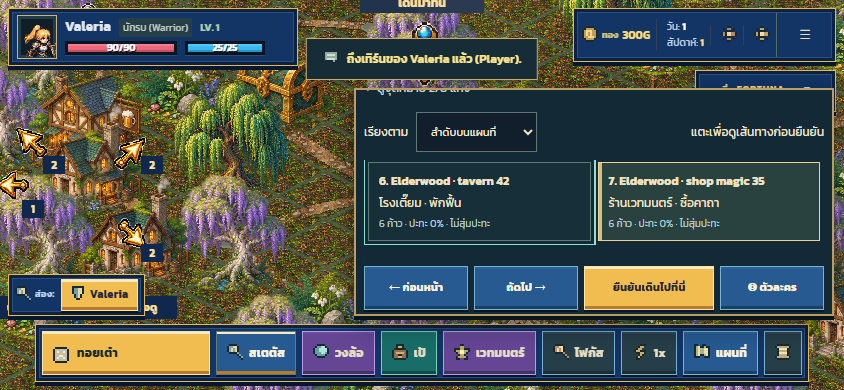
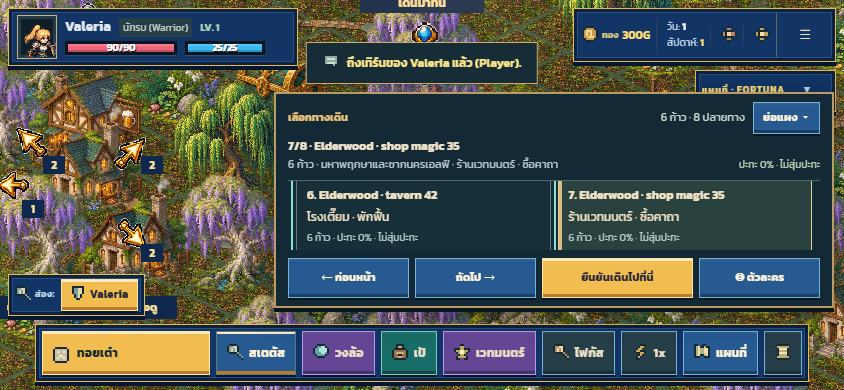
Keep route selection compact and reveal planning details on demand

Changed region(s): [[0.3081, 0.0923, 1.0, 0.8308]]

diff --git a/src/ui/MovementUI.ts b/src/ui/MovementUI.ts
@@ -17,7 +17,9 @@ export class MovementUI {
   private health: HTMLElement;
   private confirm: HTMLButtonElement;
   private list: HTMLElement;
-  private options: HTMLDetailsElement;
+  private options: HTMLElement;
+  private expand: HTMLButtonElement;
+  private risk: HTMLElement;
   private recommendation: HTMLButtonElement;
   private destinations: RouteDestinationInsight[] = [];
   private filtered: RouteDestinationInsight[] = [];
@@ -30,26 +32,30 @@ export class MovementUI {
     this.panel.id = 'movementNavigator'; this.panel.hidden = true;
     this.panel.setAttribute('aria-label', 'วางแผนและเลือกเส้นทางเดิน');
     this.panel.innerHTML = `
-      <div class="movement-heading"><strong>วางแผนเส้นทาง</strong><span id="movementStatus"></span><span id="movementHealth" class="movement-health"></span></div>
+      <div class="movement-heading"><strong>เลือกทางเดิน</strong><span id="movementStatus"></span><button type="button" id="btnMoveExpand" class="pixel-btn" aria-expanded="false" aria-controls="movementOptions">ดูตัวเลือก ▴</button></div>
+      <div id="movementDestination" role="status" aria-live="polite" aria-atomic="true"><strong id="movementTitle"></strong><div class="movement-preview"><p id="movementDetail"></p><span id="movementRisk" class="movement-risk"></span></div></div>
+      <div id="movementOptions" class="movement-options" hidden>
+      <span id="movementHealth" class="movement-health"></span>
       <div class="movement-filters" role="group" aria-label="กรองจุดหมาย">${ROUTE_FILTERS.map(filter => `<button type="button" class="pixel-btn" data-route-filter="${filter.id}" aria-pressed="${filter.id === 'all'}">${filter.label} <span>0</span></button>`).join('')}</div>
       <button type="button" id="movementRecommendation" class="movement-recommendation" hidden></button>
-      <details class="movement-options"><summary id="movementListStatus">ดูจุดหมายทั้งหมด</summary>
+      <p id="movementListStatus">ดูจุดหมายทั้งหมด</p>
         <div class="movement-list-toolbar"><label>เรียงตาม <select id="movementSort" aria-label="เรียงจุดหมาย"><option value="route">ลำดับบนแผนที่</option><option value="risk">ความเสี่ยงต่ำก่อน</option><option value="steps">จำนวนก้าว</option></select></label><span>แตะเพื่อดูเส้นทางก่อนยืนยัน</span></div>
         <div id="movementDestinations" class="movement-list" role="group" aria-label="จุดหมายที่เดินถึง"></div>
-      </details>
-      <div id="movementDestination" role="status" aria-live="polite" aria-atomic="true"><strong id="movementTitle"></strong><p id="movementDetail"></p><p id="movementAdvice" class="movement-advice"></p></div>
+      <p id="movementAdvice" class="movement-advice"></p>
+      <p class="movement-help">เลือกจุดหมายเพื่อดูทางก่อน · Enter ยืนยันเดิน · F ดูตัวละคร · ค่าต่อสู้เป็นประมาณการ ไม่รวมคริติคอล สกิลและการป้องกัน</p>
+      </div>
       <div class="movement-actions">
         <button type="button" id="btnMovePrevious" class="pixel-btn" aria-label="ปลายทางก่อนหน้าในรายการ">← ก่อนหน้า</button>
         <button type="button" id="btnMoveNext" class="pixel-btn" aria-label="ปลายทางถัดไปในรายการ">ถัดไป →</button>
         <button type="button" id="btnMoveConfirm" class="pixel-btn pixel-btn-gold">ยืนยันเดินไปที่นี่</button>
         <button type="button" id="btnMoveCenter" class="pixel-btn" aria-label="กลับไปดูตัวละคร">◎ ตัวละคร</button>
-      </div>
-      <p class="movement-help">เลือกจุดหมายเพื่อดูทางก่อน · Enter ยืนยันเดิน · F ดูตัวละคร · ค่าต่อสู้เป็นประมาณการ ไม่รวมคริติคอล สกิลและการป้องกัน</p>`;
+      </div>`;
     document.body.appendChild(this.panel);
     this.title = this.panel.querySelector('#movementTitle')!; this.detail = this.panel.querySelector('#movementDetail')!;
     this.status = this.panel.querySelector('#movementStatus')!; this.advice = this.panel.querySelector('#movementAdvice')!;
     this.health = this.panel.querySelector('#movementHealth')!; this.confirm = this.panel.querySelector('#btnMoveConfirm')!;
-    this.list = this.panel.querySelector('#movementDestinations')!; this.options = this.panel.querySelector('details')!;
+    this.list = this.panel.querySelector('#movementDestinations')!; this.options = this.panel.querySelector('#movementOptions')!;
+    this.expand = this.panel.querySelector('#btnMoveExpand')!; this.risk = this.panel.querySelector('#movementRisk')!;
     this.recommendation = this.panel.querySelector('#movementRecommendation')!;
     const cycle = (direction: number) => {
       if (!this.onSelect) return onCycle(direction);
@@ -60,8 +66,9 @@ export class MovementUI {
     this.panel.querySelector('#btnMoveNext')!.addEventListener('click', () => cycle(1));
     this.confirm.addEventListener('click', onConfirm);
     this.panel.querySelector('#btnMoveCenter')!.addEventListener('click', onCenter);
+    this.expand.addEventListener('click', () => this.setExpanded(this.options.hidden));
     this.panel.querySelectorAll<HTMLButtonElement>('[data-route-filter]').forEach(button => button.addEventListener('click', () => {
-      this.filter = button.dataset.routeFilter as RouteFilter; this.options.open = true; this.renderList(); this.measure();
+      this.filter = button.dataset.routeFilter as RouteFilter; this.renderList(); this.measure();
     }));
     this.panel.querySelector<HTMLSelectElement>('#movementSort')!.addEventListener('change', event => { this.sort = (event.target as HTMLSelectElement).value as RouteSort; this.renderList(); this.measure(); });
     this.list.addEventListener('click', event => {
@@ -70,7 +77,17 @@ export class MovementUI {
       if (button && this.destinations.some(destination => destination.id === id)) this.onSelect?.(id);
     });
     this.recommendation.addEventListener('click', () => { const id = Number(this.recommendation.dataset.nodeId); if (this.destinations.some(destination => destination.id === id)) this.onSelect?.(id); });
-    this.options.addEventListener('toggle', () => this.measure());
+    new ResizeObserver(() => this.measure()).observe(this.panel);
+  }
+
+  private setExpanded(expanded: boolean) {
+    // Keep focus on a visible control if details are collapsed programmatically.
+    if (!expanded && this.options.contains(document.activeElement)) this.expand.focus({ preventScroll: true });
+    this.options.hidden = !expanded;
+    this.panel.dataset.expanded = String(expanded);
+    this.expand.setAttribute('aria-expanded', String(expanded));
+    this.expand.textContent = expanded ? 'ย่อแผง ▾' : 'ดูตัวเลือก ▴';
+    this.measure();
   }
 
   private measure() {
@@ -110,7 +127,7 @@ export class MovementUI {
     const now = performance.now();
     if (this.wasVisible && selectedId === this.selectedId && now < this.nextSnapshotAt) return;
     this.nextSnapshotAt = now + 120;
-    if (!this.wasVisible) { this.filter = 'all'; this.options.open = window.innerWidth > 900; this.wasVisible = true; }
+    if (!this.wasVisible) { this.filter = 'all'; this.setExpanded(false); this.wasVisible = true; }
     this.measure();
     const player = game.activePlayer, world = game.world;
     const reachable = new Set(game.highlightedNodes);
@@ -148,11 +165,14 @@ export class MovementUI {
     if (!selected || !node) {
       this.title.textContent = 'เลือกจุดหมายบนแผนที่หรือจากรายการ';
       this.detail.textContent = player.hasFlexibleMovement ? `ผลึกอิสระ: หยุดได้ตั้งแต่ 1 ถึง ${game.remainingMoves} ก้าว` : `เดินครบ ${game.remainingMoves} ก้าว · ออกเดินได้ทั้งสองทิศทาง`;
+      this.risk.textContent = ''; this.risk.hidden = true;
       this.advice.textContent = 'การกรองและดูข้อมูลยังไม่เริ่มเดิน กดยืนยันเมื่อพร้อม'; this.advice.dataset.risk = 'none'; return;
     }
     this.title.textContent = `${selected.originalIndex + 1}/${game.highlightedNodes.length} · ${selected.name}`;
     this.detail.textContent = `${selected.steps} ก้าว · ${node.subRegionName || node.realmName} · ${selected.benefit}`;
     this.advice.dataset.risk = selected.advice.risk;
+    this.risk.hidden = false; this.risk.dataset.risk = selected.advice.risk;
+    this.risk.textContent = selected.rivalName ? `อาจดวล PvP · ${selected.advice.label}` : `ปะทะ ${selected.encounterChance}% · ${selected.advice.label}`;
     this.advice.textContent = selected.rivalName
       ? `พบ ${selected.rivalName} · อาจดวล PvP · ${selected.advice.label}`
       : `โอกาสปะทะ ${selected.encounterChance}% · ${selected.advice.label}${selected.advice.incomingDamage ? ` · ศัตรูโจมตีแรงราว ${selected.advice.incomingDamage} HP` : ''}`;

diff --git a/src/styles/adventure.css b/src/styles/adventure.css
@@ -42,16 +42,27 @@
 .adventure-coach-close { min-height: 44px; min-width: 32px; color: #bbc7c3; }
 body.adventure-guide-open :is(#floatingEventToast, #turnStartBanner, #orientationHintToast) { display: none; }
 
-body #movementNavigator { width: min(650px, calc(100vw - 24px)); max-height: min(530px, calc(100dvh - var(--hud-clearance, 100px) - var(--dock-clearance, 88px) - 28px)); overflow-y: auto; overscroll-behavior: contain; }
+body #movementNavigator { display: flex; flex-direction: column; width: min(650px, calc(100vw - 24px)); bottom: calc(var(--dock-clearance, 88px) + 8px); max-height: min(420px, 50dvh, calc(100dvh - var(--hud-clearance, 100px) - var(--dock-clearance, 88px) - 24px)); padding: 8px 12px; overflow: visible; line-height: 1.4; }
+body #movementNavigator[hidden] { display: none; }
+body #movementNavigator .movement-heading { align-items: center; flex-shrink: 0; font-size: 11px; }
+#movementStatus { flex: 1; text-align: right; color: #c5d6ce; }
+#btnMoveExpand { min-height: 32px; padding: 4px 9px; font-size: 11px; white-space: nowrap; }
+body #movementDestination { flex-shrink: 0; min-height: 0; margin: 4px 0 8px; }
+#movementTitle { display: block; overflow: hidden; text-overflow: ellipsis; white-space: nowrap; }
+.movement-preview { display: flex; align-items: baseline; gap: 8px; }
+body #movementDetail { flex: 1; min-width: 0; margin: 2px 0 0; overflow: hidden; text-overflow: ellipsis; white-space: nowrap; }
+.movement-risk { flex-shrink: 0; font-size: 10px; color: #b8d6b5; }
+.movement-risk[data-risk='danger'] { color: #ffc0ad; }
+.movement-risk[data-risk='caution'] { color: #f2d093; }
 .movement-filters { display: flex; gap: 5px; flex-wrap: wrap; margin: 10px 0; }
 .movement-filters button { min-height: 36px; padding: 4px 10px; font-size: 11px; }
 .movement-filters button[aria-pressed='true'] { color: #15292e; background: #c4ae77; border-color: #efd398; }
-.movement-options { margin: 8px 0; }
-.movement-options summary { cursor: pointer; padding: 6px 0; color: #c5d6ce; }
+.movement-options { min-height: 0; overflow-y: auto; overscroll-behavior: contain; margin: 0 0 8px; padding: 8px 4px 4px; border-top: 1px solid #526766; }
+#movementListStatus { margin: 4px 0; color: #c5d6ce; font-size: 11px; }
 .movement-list-toolbar { display: flex; align-items: center; justify-content: space-between; gap: 8px; margin: 8px 0; }
 .movement-list-toolbar label { display: flex; gap: 8px; align-items: center; }
 .movement-list-toolbar select { min-height: 36px; padding: 4px 8px; font-size: 11px; }
-.movement-list { display: grid; grid-template-columns: repeat(2, minmax(0, 1fr)); gap: 7px; max-height: 190px; overflow-y: auto; overscroll-behavior: contain; padding: 2px 4px 4px; }
+.movement-list { display: grid; grid-template-columns: repeat(2, minmax(0, 1fr)); gap: 7px; padding: 2px 4px 4px; }
 .movement-card { display: flex; flex-direction: column; gap: 4px; min-width: 0; min-height: 64px; padding: 9px 10px; border: 1px solid #617b7c; background: #172f39; color: #f0e2c4; text-align: left; font-size: 12px; line-height: 1.5; }
 .movement-card strong { overflow-wrap: anywhere; }
 .movement-card[aria-pressed='true'], .movement-card[aria-current='true'] { border-color: #ecd096; box-shadow: inset 3px 0 #d7bd84; background: #29423f; }
@@ -61,7 +72,8 @@ body #movementNavigator { width: min(650px, calc(100vw - 24px)); max-height: min
 .movement-recommendation { color: #c5ddbe; font-size: 11px; padding: 4px 0; }
 .movement-health { color: #e6bc8e; font-size: 11px; margin: 4px 0; }
 .movement-empty { padding: 12px; color: #b7c9c8; font-size: 12px; line-height: 1.6; }
-body #movementNavigator .movement-actions { position: sticky; bottom: -12px; z-index: 2; padding: 9px 0 8px; background: #142936; }
+body #movementNavigator .movement-actions { position: static; flex-shrink: 0; padding: 0; background: #142936; }
+body #movementNavigator .movement-actions button { min-height: 40px; }
 .movement-list button:focus-visible, .movement-filters button:focus-visible { outline: 2px solid #a8dfc1; outline-offset: 1px; }
 
 @media (max-width: 600px) {
@@ -73,15 +85,19 @@ body #movementNavigator .movement-actions { position: sticky; bottom: -12px; z-i
   .adventure-guide-content { font-size: 13px; padding-right: 3px; }
   .adventure-combat-grid, .adventure-service-list { grid-template-columns: minmax(0, 1fr); }
   .adventure-control-list { grid-template-columns: 88px 1fr; }
-  .movement-list { grid-template-columns: minmax(0, 1fr); max-height: 145px; }
+  .movement-list { grid-template-columns: minmax(0, 1fr); }
   .movement-filters { flex-wrap: nowrap; overflow-x: auto; padding-bottom: 4px; }
   .movement-filters button { flex-shrink: 0; min-height: 40px; }
-  body #movementNavigator { bottom: var(--dock-clearance); padding: 9px 10px 4px; }
+  body #movementNavigator { bottom: calc(var(--dock-clearance, 88px) + 6px); padding: 7px 9px; }
+  .movement-preview { display: block; }
+  .movement-risk { display: block; margin-top: 2px; }
+  .movement-risk[hidden] { display: none; }
+  .movement-list-toolbar > span { display: none; }
+  body #movementNavigator .movement-actions button { min-height: 44px; }
   #adventureCoach { padding: 8px 10px; gap: 6px; }
 }
 @media (max-height: 500px) and (min-width: 601px) {
-  body #movementNavigator { right: 10px; left: auto; transform: none; width: min(480px, calc(100vw - 24px)); bottom: var(--dock-clearance); max-height: calc(100dvh - var(--hud-clearance, 75px) - var(--dock-clearance, 70px) - 12px); }
-  .movement-list { max-height: 105px; }
+  body #movementNavigator { right: 10px; left: auto; transform: none; width: min(560px, calc(100vw - 24px)); max-height: calc(100dvh - var(--hud-clearance, 75px) - var(--dock-clearance, 70px) - 24px); }
   .adventure-guide-header h2 { font-size: 20px; }
   .adventure-guide-header { padding-bottom: 8px; }
   .adventure-guide-tabs { padding-bottom: 8px; }

diff --git a/src/ui/WorldNavigator.ts b/src/ui/WorldNavigator.ts
@@ -46,7 +46,7 @@ export class WorldNavigator {
     this.movementButton = document.createElement('button'); this.movementButton.type = 'button';
     this.movementButton.id = 'btnMoveWaypoint'; this.movementButton.className = 'pixel-btn waypoint-route-button'; this.movementButton.hidden = true;
     this.movementButton.addEventListener('click', () => { if (this.recommended !== null) this.preview(this.recommended); });
-    document.querySelector('#movementNavigator .movement-heading')?.after(this.movementButton);
+    document.querySelector('#movementOptions')?.prepend(this.movementButton);
   }
   open() {
     if (!this.game.activePlayer) return;
